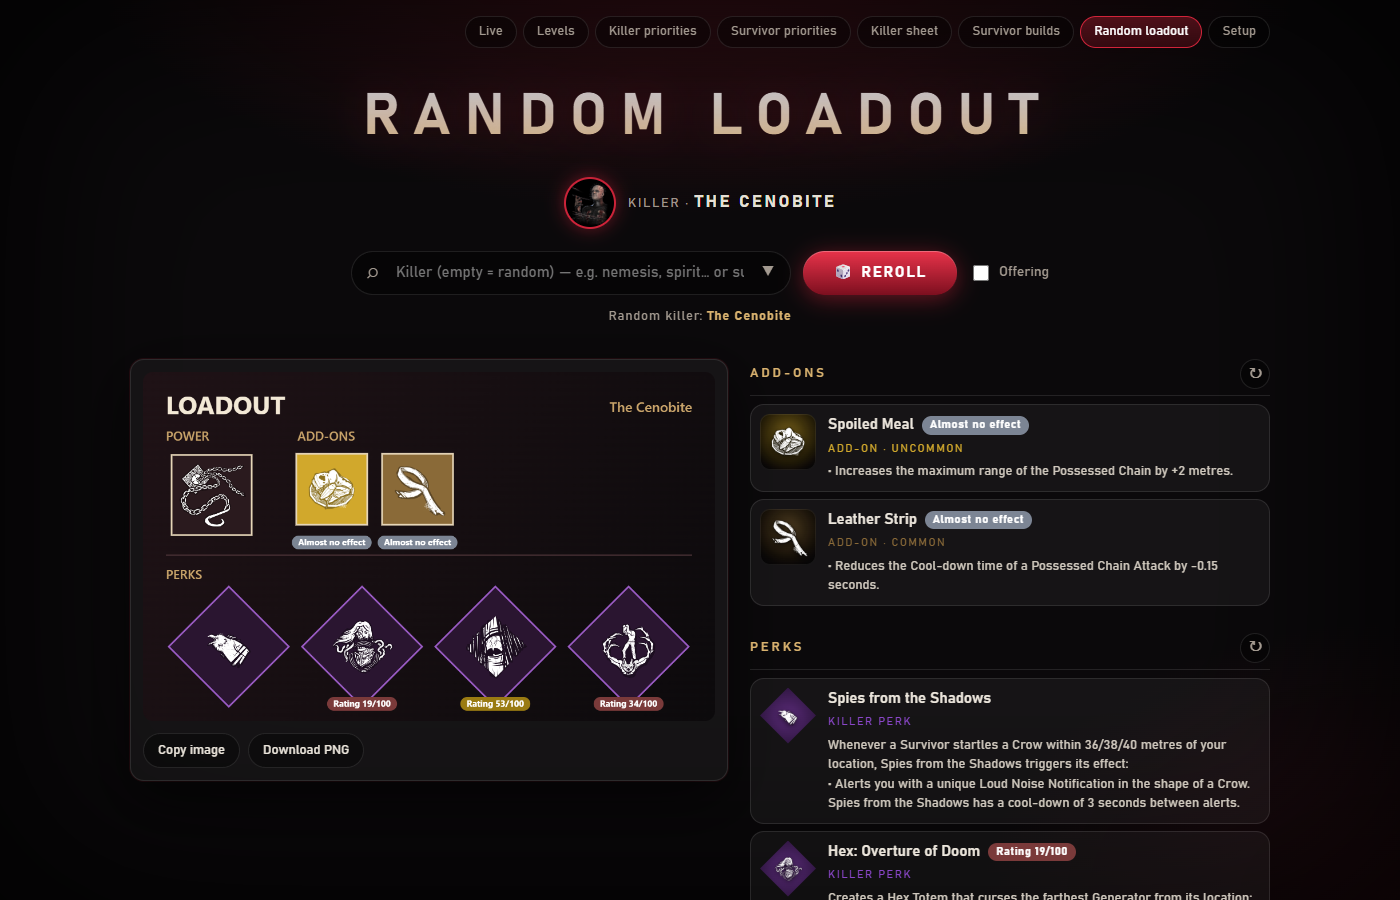
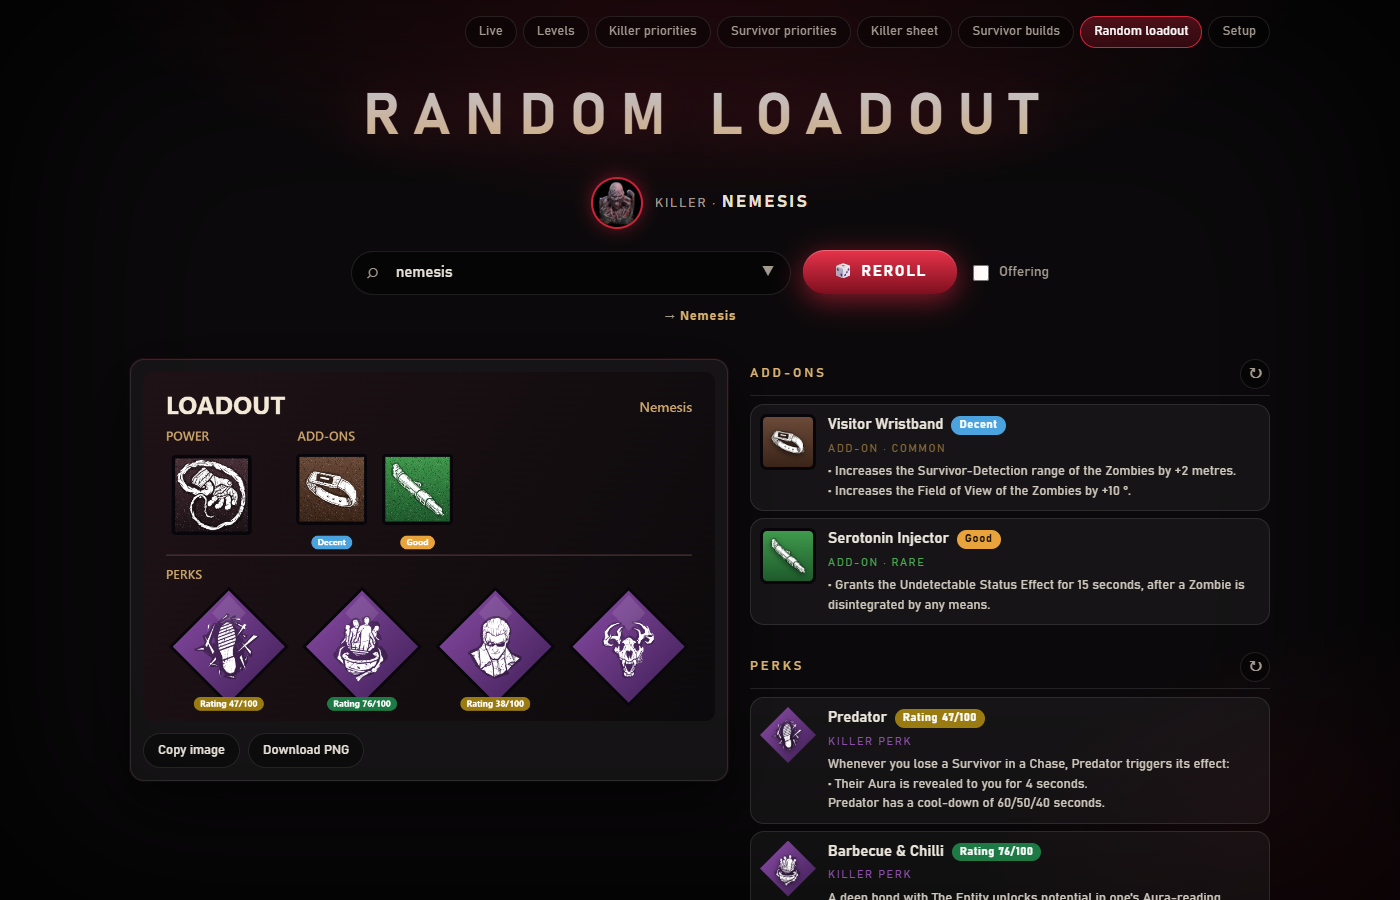
Draw perks and add-ons the way the game does
Perks get the game's lit violet gradient diamond with a thick dark border and a big
glyph (the same violet for survivors and killers) on the random-loadout poster, its
list, the live page cards and the overlay badges (which keep their rounded square
shape). Add-ons and items become rarity-coloured gradient squares with a thick dark
border, a fine grain and a glyph cropped to fill the frame. `serve` no longer takes
the single-instance lock (it has no hotkeys). Screenshots refreshed.

diff --git a/web/loadout.html b/web/loadout.html
@@ -37,10 +37,10 @@
   .row { display:flex; gap:12px; align-items:flex-start; padding:9px 12px 9px 9px; margin-bottom:7px; border-left:3px solid var(--rc);
          animation:rise .45s both; animation-delay:calc(var(--i) * 55ms); cursor:help; }
   .row:hover { transform:translateX(3px); }
-  .row .ic { flex:none; width:56px; height:56px; display:grid; place-items:center; border-radius:10px; background:radial-gradient(circle at 50% 35%, color-mix(in srgb,var(--rc) 55%,#000), #000a); box-shadow:inset 0 0 0 1px #fff1; }
-  .row .ic.dia { clip-path:polygon(50% 0,100% 50%,50% 100%,0 50%); background:radial-gradient(circle,#5a2b78,#220f30); box-shadow:none; }
-  .row .ic img { width:44px; height:44px; object-fit:contain; filter:drop-shadow(0 2px 3px #000a); }
-  .row .ic.dia img { width:34px; height:34px; }
+  .row .ic { flex:none; width:56px; height:56px; display:grid; place-items:center; border-radius:7px; border:3px solid #08060a; background:linear-gradient(180deg,var(--c1,#555),var(--c2,#222)); box-shadow:none; }
+  .row .ic.dia { border:0; clip-path:polygon(50% 0,100% 50%,50% 100%,0 50%); background:linear-gradient(135deg,#8e4eaa,#3a1c50); box-shadow:none; }
+  .row .ic img { width:46px; height:46px; object-fit:contain; filter:drop-shadow(0 2px 3px #000a); }
+  .row .ic.dia img { width:42px; height:42px; }
   .row .tx { min-width:0; flex:1; }
   .row .top { display:flex; align-items:center; gap:8px; flex-wrap:wrap; }
   .row b { font-size:15px; font-weight:600; }
@@ -86,6 +86,9 @@
 <div id="tip"></div>
 <script>
 const DATA = /*DATA*/null;
+// Rarity colours as the game paints them: a lit gradient (lighter on top), not a flat fill
+const RGRAD = {0:["#6a6a6a","#383838"],1:["#6b4a38","#3a2418"],2:["#f0bd1c","#c98a0c"],3:["#3f9a4c","#1e5a2c"],4:["#8a3fb0","#44205f"],5:["#e0407a","#8a1e48"],8:["#3f82d0","#1d3f78"],11:["#d8d8d8","#8c8c8c"]};
+const rgrad = r => RGRAD[r] || RGRAD[0];
 const RARITY = {0:"#5a5a5a",1:"#8a6a38",2:"#d1a82c",3:"#46a850",4:"#8a46c8",5:"#e03a78",8:"#3a8fd8",11:"#c8c8c8"};
 const RNAME = {1:"Common",2:"Uncommon",3:"Rare",4:"Very rare",5:"Ultra rare",8:"Event",11:"Limited"};
 const TIER_FR = {strongest:"Strongest", good:"Good", decent:"Decent", "almost-no-effect":"Almost no effect", detrimental:"Detrimental"};
@@ -196,9 +199,9 @@ function noteChip(d){
   return "";
 }
 function rowHtml(d, kind, i, dia){
-  const rc = dia ? "#8a46c8" : (RARITY[d.rarity] || "#8a46c8");
+  const rc = dia ? "#8e4eaa" : (RARITY[d.rarity] || "#8a46c8"), [c1, c2] = rgrad(d.rarity);
   const idx = entries.push({d, kind}) - 1;
-  return `<div class="row" data-e="${idx}" style="--rc:${rc};--i:${i}"><div class="ic${dia?" dia":""}"><img src="${d.icon}" alt=""></div>` +
+  return `<div class="row" data-e="${idx}" style="--rc:${rc};--c1:${c1};--c2:${c2};--i:${i}"><div class="ic${dia?" dia":""}"><img src="${d.icon}" alt=""></div>` +
          `<div class="tx"><div class="top"><b>${esc(d.name)}</b>${noteChip(d)}</div><span class="chip">${esc([kind, d.rarity?RNAME[d.rarity]:""].filter(Boolean).join(" · "))}</span><div class="d">${esc(d.desc||"")}</div></div></div>`;
 }
 function lists(){
@@ -238,6 +241,56 @@ async function slot(c, kind, cx, cy, r, d, label, fill, stroke, scale){
   c.drawImage(im, cx-im.width*k/2, cy-im.height*k/2, im.width*k, im.height*k);
   regions.push({cx, cy, r:r*0.9, d, label});
 }
+// A perk, drawn like the game's menu: a lit gradient diamond (violet for survivors, crimson for killers) in a thick dark border, big glyph.
+const TIER = { S: ["#8e4eaa", "#3a1c50"] };
+async function perkSlot(c, cx, cy, r, d, label, side){
+  const dia = (k) => path(c, [[cx,cy-k],[cx+k,cy],[cx,cy+k],[cx-k,cy]]);
+  dia(r); c.fillStyle = "#08060a"; c.fill();                                   // dark border
+  dia(r - 7);
+  const g = c.createLinearGradient(cx - r, cy - r, cx + r, cy + r); g.addColorStop(0, TIER[side][0]); g.addColorStop(1, TIER[side][1]);
+  c.fillStyle = g; c.fill();
+  path(c, [[cx, cy - r*0.86],[cx + r*0.28, cy - r*0.56],[cx, cy - r*0.26],[cx - r*0.28, cy - r*0.56]]); c.fillStyle = "rgba(255,255,255,0.10)"; c.fill();   // light catching the top
+  const im = await load(d.icon), k = (r*0.74*2)/Math.max(im.width, im.height);
+  c.drawImage(im, cx - im.width*k/2, cy - im.height*k/2, im.width*k, im.height*k);
+  regions.push({cx, cy, r:r*0.9, d, label});
+}
+// speckled grain over the frames, like the game's textured backgrounds
+let GRAIN = null;
+function grain(){
+  if (GRAIN) return GRAIN;
+  const g = document.createElement("canvas"); g.width = g.height = 96;
+  const x = g.getContext("2d"), id = x.createImageData(96, 96);
+  for (let i = 0; i < id.data.length; i += 4) {
+    const v = Math.random();
+    if (v < 0.10) { id.data[i] = id.data[i+1] = id.data[i+2] = 0; id.data[i+3] = 60 + Math.random()*70; }
+    else if (v > 0.965) { id.data[i] = id.data[i+1] = id.data[i+2] = 255; id.data[i+3] = 35 + Math.random()*40; }
+  }
+  x.putImageData(id, 0, 0);
+  return GRAIN = g;
+}
+const trimCache = {};
+function trimmed(im){  // the icon cropped to its visible glyph, so it can fill the frame
+  if (trimCache[im.src]) return trimCache[im.src];
+  const c = document.createElement("canvas"); c.width = im.width; c.height = im.height;
+  const x = c.getContext("2d"); x.drawImage(im, 0, 0);
+  const d = x.getImageData(0, 0, c.width, c.height).data;
+  let x0 = c.width, y0 = c.height, x1 = 0, y1 = 0;
+  for (let y = 0; y < c.height; y++) for (let xx = 0; xx < c.width; xx++) if (d[(y*c.width + xx)*4 + 3] > 24) { if (xx < x0) x0 = xx; if (xx > x1) x1 = xx; if (y < y0) y0 = y; if (y > y1) y1 = y; }
+  if (x1 <= x0 || y1 <= y0) return trimCache[im.src] = {src:im, sx:0, sy:0, sw:im.width, sh:im.height};
+  return trimCache[im.src] = {src:im, sx:x0, sy:y0, sw:x1-x0+1, sh:y1-y0+1};
+}
+async function gameSquare(c, cx, cy, r, d, label, grad, fill){
+  const bw = Math.max(5, r*0.09), x = cx - r + bw, y = cy - r + bw, w = 2*(r - bw);
+  c.fillStyle = "#08060a"; c.beginPath(); c.roundRect(cx - r, cy - r, 2*r, 2*r, 7); c.fill();         // thick dark border
+  const g = c.createLinearGradient(0, y, 0, y + w); g.addColorStop(0, grad[0]); g.addColorStop(1, grad[1]);
+  c.save(); c.beginPath(); c.rect(x, y, w, w); c.clip();
+  c.fillStyle = g; c.fillRect(x, y, w, w);
+  c.fillStyle = c.createPattern(grain(), "repeat"); c.fillRect(x, y, w, w);
+  c.restore();
+  const t = trimmed(await load(d.icon)), k = (w*fill)/Math.max(t.sw, t.sh);
+  c.drawImage(t.src, t.sx, t.sy, t.sw, t.sh, cx - t.sw*k/2, cy - t.sh*k/2, t.sw*k, t.sh*k);
+  regions.push({cx, cy, r:r*0.9, d, label});
+}
 function heading(c, t, x, y){ c.fillStyle="#c9a46a"; c.font="600 22px Segoe UI, sans-serif"; c.textAlign="left"; c.fillText(t, x, y); }
 
 async function draw(){
@@ -252,16 +305,16 @@ async function draw(){
   const off = cOff.checked;
   heading(c, mode==="K"?"POWER":"ITEM", 40, 120); heading(c, "ADD-ONS", 270, 120); if (off) heading(c, "OFFERING", 690, 120); heading(c, "PERKS", 40, 362);
   const kindItem = mode==="K" ? "Power" : "Item";
-  await slot(c,"square", 120,215, 70, L.item, kindItem, mode==="K"?"#2a1a1e":(RARITY[L.item.rarity]||"#444"), "#e6d6b8", mode==="K"?0.95:0.85);
+  await gameSquare(c, 120, 215, 70, L.item, kindItem, mode==="K" ? ["#4a3038","#1c1216"] : rgrad(L.item.rarity), mode==="K" ? 0.98 : 0.84);
   for (const [i, cx] of [[0,330],[1,480]]) {
     const a = L.addons[i];
-    await slot(c,"square", cx,205, 62, a, "Add-on", RARITY[a.rarity]||"#444", "#e6d6b8", 0.85);
+    await gameSquare(c, cx, 205, 62, a, "Add-on", rgrad(a.rarity), 0.84);
     if (a.tier) pill(c, TIER_FR[a.tier], cx, 298, TIER_COL[a.tier]);
   }
   if (off) await slot(c,"hex", 830,205, 85, L.off, "Offering", RARITY[L.off.rarity]||"#444", "#d9b26f", 0.7);
   for (let i=0;i<4;i++) {
     const p = L.perks[i], cx = 150+i*233;
-    await slot(c,"diamond", cx, 480, 105, p, "Perk", "#2a1530", "#9a5bc4", 0.62);
+    await perkSlot(c, cx, 480, 105, p, "Perk", "S");
     if (p.note != null) pill(c, `Rating ${p.note}/100`, cx, 580, p.note>=60?"#1e7a45":p.note>=35?"#9a7b12":"#7a3a3a");
   }
 }

diff --git a/web/live.html b/web/live.html
@@ -19,7 +19,7 @@
   .who b { font-size:20px; letter-spacing:.08em; text-transform:uppercase; }
   .who span { color:var(--gold); font-size:15px; }
   .card { display:flex; gap:12px; background:var(--panel); border:1px solid var(--border); border-radius:12px; padding:10px 12px; margin-bottom:10px; }
-  .card img { width:54px; height:54px; flex:none; object-fit:contain; background:#3c1c5a; border-radius:8px; padding:3px; }
+  .card img { width:54px; height:54px; flex:none; object-fit:contain; background:linear-gradient(135deg,#8e4eaa,#3a1c50); border:2px solid #08060a; border-radius:8px; padding:1px; }
   .card h4 { margin:0 0 4px; font-size:16px; display:flex; gap:8px; align-items:center; flex-wrap:wrap; }
   .card p { margin:0; color:#d8d0c4; font-size:13.5px; line-height:1.45; white-space:pre-line; overflow-wrap:anywhere; }
   .note { font-size:12px; font-weight:700; color:#fff; border-radius:6px; padding:1px 8px; }
@@ -31,7 +31,7 @@
   .pick.sel { border-color:var(--accent); background:var(--panel2); }
   .pick .who b { font-size:17px; } .pick.sel .who b { color:var(--gold); }
   .mini { display:flex; align-items:center; gap:8px; padding:2px 0; font-size:13.5px; }
-  .mini img { width:30px; height:30px; object-fit:contain; background:#3c1c5a; border-radius:6px; }
+  .mini img { width:30px; height:30px; object-fit:contain; background:linear-gradient(135deg,#8e4eaa,#3a1c50); border:1.5px solid #08060a; border-radius:6px; }
   .mini .nm { flex:1; min-width:0; overflow:hidden; text-overflow:ellipsis; white-space:nowrap; }
   .detail { display:grid; grid-template-columns:1fr 1fr; gap:10px 14px; }
   .detail .who { grid-column:1/-1; } .detail .who b { font-size:26px; }

diff --git a/entity_toolkit/overlay.py b/entity_toolkit/overlay.py
@@ -41,14 +41,34 @@ def layout():
         return dict(DEFAULT)
 
 
+def _gradient(size, c0, c1):
+    """Diagonal gradient, light at the top left like the game's lit perk frame."""
+    yy, xx = np.mgrid[0:size, 0:size]
+    t = (xx + yy) / (2.0 * max(size - 1, 1))
+    arr = np.stack([(c0[i] + (c1[i] - c0[i]) * t).astype(np.uint8) for i in range(3)], axis=-1)
+    return Image.fromarray(arr, "RGB")
+
+
 def _badge(icon, size):
-    """Perk icon on an opaque dark badge (no transparency fringe)."""
-    im = Image.open(paths.ICONS / icon).convert("RGBA").resize((size - 6, size - 6), Image.LANCZOS)
-    bg = Image.new("RGBA", (size, size), (0, 0, 0, 0))
-    d = ImageDraw.Draw(bg)
-    d.rounded_rectangle((0, 0, size - 1, size - 1), radius=8, fill=(24, 14, 36, 255), outline=(150, 110, 200, 255), width=2)
-    bg.alpha_composite(im, (3, 3))
-    return bg.convert("RGB")
+    """Perk icon the way the game draws it: a lit violet frame with a thick dark border and a big glyph. Opaque; the corners use the
+    transparent key colour so the badge looks rounded."""
+    k = 4  # drawn at 4x then reduced, for smooth edges
+    big = size * k
+    corner = Image.new("RGB", (big, big), (1, 2, 3))
+    mask = Image.new("L", (big, big), 0)
+    ImageDraw.Draw(mask).rounded_rectangle((0, 0, big - 1, big - 1), radius=9 * k, fill=255)
+    base = Image.new("RGB", (big, big), (8, 6, 10))                      # dark border
+    inner = Image.new("L", (big, big), 0)
+    ImageDraw.Draw(inner).rounded_rectangle((3 * k, 3 * k, big - 1 - 3 * k, big - 1 - 3 * k), radius=7 * k, fill=255)
+    base.paste(_gradient(big, (142, 78, 170), (58, 28, 80)), (0, 0), inner)
+    ic = Image.open(paths.ICONS / icon).convert("RGBA")
+    if ic.getbbox():
+        ic = ic.crop(ic.getbbox())
+    f = min(big * 0.82 / ic.width, big * 0.82 / ic.height)
+    ic = ic.resize((max(1, int(ic.width * f)), max(1, int(ic.height * f))), Image.LANCZOS)
+    base.paste(ic, ((big - ic.width) // 2, (big - ic.height) // 2), ic)
+    corner.paste(base, (0, 0), mask)
+    return corner.resize((size, size), Image.LANCZOS)
 
 
 def _norm(t):

diff --git a/entity_toolkit/__main__.py b/entity_toolkit/__main__.py
@@ -66,12 +66,9 @@ def _test_image(path):
 
 
 def _serve(demo=False):
-    from . import config, server, winapi
+    from . import config, server
     from .log import log
-    if not winapi.single_instance():
-        log("Entity Toolkit is already running: not starting a second copy")
-        return 1
-    hub = server.Hub()
+    hub = server.Hub()  # no mutex here: `serve` has no hotkeys, so it cannot double-handle a key press; the port check is enough
     try:
         url = server.start(hub, config.load()["port"])
     except OSError:
